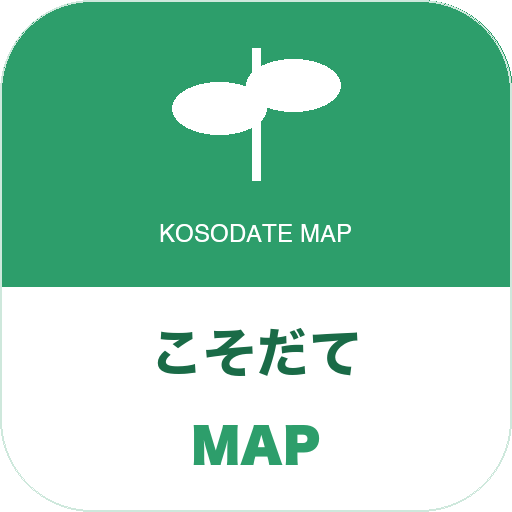
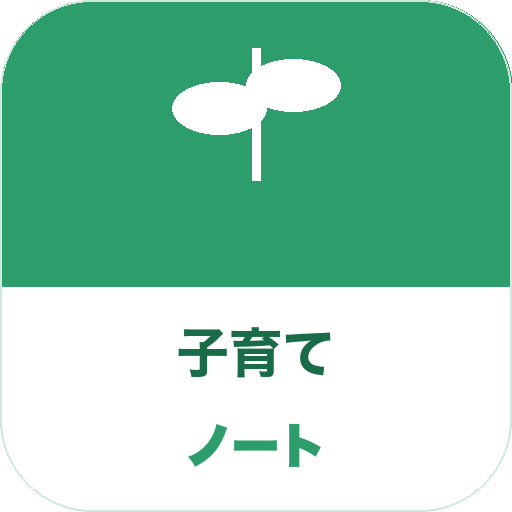
feat: ロゴ・アイコンを総社子育てノートデザインに更新
- アイコン下部テキスト「こそだて/MAP」→「子育て/ノート」
- 上部帯のKOSODATE MAPサブテキストを削除（シンプル化）
- ヘッダー・ヒーロー絵文字 🗺 → 🌱

Changed region(s): [[0.3125, 0.625, 0.7188, 0.75], [0.375, 0.8125, 0.625, 0.9375], [0.3125, 0.4375, 0.6875, 0.4688]]

diff --git a/public/icon-generator.html b/public/icon-generator.html
@@ -1,0 +1,187 @@
+<!DOCTYPE html>
+<html lang="ja">
+<head>
+  <meta charset="UTF-8">
+  <title>アイコン生成</title>
+  <link href="https://fonts.googleapis.com/css2?family=Noto+Sans+JP:wght@700;900&display=swap" rel="stylesheet">
+  <style>
+    * { margin: 0; padding: 0; box-sizing: border-box; }
+    body {
+      background: #d0d0d0;
+      display: flex;
+      flex-direction: column;
+      align-items: center;
+      padding: 40px 24px;
+      gap: 32px;
+      font-family: 'Noto Sans JP', sans-serif;
+    }
+    h2 { font-size: 14px; color: #444; letter-spacing: 1px; }
+    .previews {
+      display: flex;
+      gap: 32px;
+      align-items: flex-end;
+    }
+    .preview-box {
+      display: flex;
+      flex-direction: column;
+      align-items: center;
+      gap: 8px;
+    }
+    .preview-box span { font-size: 11px; color: #666; }
+    canvas { border-radius: 22%; box-shadow: 0 4px 16px rgba(0,0,0,0.15); }
+    .btns {
+      display: flex;
+      gap: 16px;
+    }
+    button {
+      background: #2d9e6b;
+      color: #fff;
+      border: none;
+      border-radius: 8px;
+      padding: 10px 24px;
+      font-size: 13px;
+      font-weight: 700;
+      cursor: pointer;
+      font-family: 'Noto Sans JP', sans-serif;
+    }
+    button:hover { background: #1a7a52; }
+  </style>
+</head>
+<body>
+
+<h2>PWA ホーム画面アイコン — プレビュー</h2>
+
+<div class="previews">
+  <div class="preview-box">
+    <canvas id="c512" width="512" height="512" style="width:120px;height:120px;"></canvas>
+    <span>512 × 512 px</span>
+  </div>
+  <div class="preview-box">
+    <canvas id="c192" width="192" height="192" style="width:80px;height:80px;"></canvas>
+    <span>192 × 192 px</span>
+  </div>
+  <div class="preview-box">
+    <canvas id="c64" width="64" height="64" style="width:48px;height:48px;"></canvas>
+    <span>64 × 64 px（favicon）</span>
+  </div>
+</div>
+
+<div class="btns">
+  <button onclick="download('c512','icon-512.png')">📥 icon-512.png</button>
+  <button onclick="download('c192','icon-192.png')">📥 icon-192.png</button>
+  <button onclick="download('c64','favicon.png')">📥 favicon.png</button>
+</div>
+
+<script>
+  // フォント読み込み待機後に描画
+  document.fonts.ready.then(() => {
+    ['c512','c192','c64'].forEach(id => drawIcon(id));
+  });
+
+  function drawIcon(canvasId) {
+    const canvas = document.getElementById(canvasId);
+    const size = canvas.width;
+    const ctx = canvas.getContext('2d');
+    const s = size / 512; // スケールファクター（512基準）
+
+    ctx.clearRect(0, 0, size, size);
+
+    // ── 背景（白） ──
+    const r = 80 * s; // 角丸半径
+    roundRect(ctx, 0, 0, size, size, r);
+    ctx.fillStyle = '#ffffff';
+    ctx.fill();
+
+    // ── 上部グリーン帯（高さ54%） ──
+    const bandH = size * 0.56;
+    ctx.save();
+    roundRect(ctx, 0, 0, size, size, r);
+    ctx.clip();
+    ctx.fillStyle = '#2d9e6b';
+    ctx.fillRect(0, 0, size, bandH);
+    ctx.restore();
+
+    // ── 葉のシンボル（白いシンプル形状）──
+    const cx = size / 2;
+    const cy = bandH * 0.44;
+    const leafSize = 120 * s;
+
+    ctx.save();
+    ctx.translate(cx, cy);
+
+    // 茎
+    ctx.strokeStyle = 'rgba(255,255,255,0.85)';
+    ctx.lineWidth = 9 * s;
+    ctx.lineCap = 'round';
+    ctx.beginPath();
+    ctx.moveTo(0, leafSize * 0.55);
+    ctx.lineTo(0, -leafSize * 0.6);
+    ctx.stroke();
+
+    // 左の葉
+    ctx.fillStyle = 'rgba(255,255,255,0.90)';
+    ctx.beginPath();
+    ctx.ellipse(-leafSize * 0.38, -leafSize * 0.08, leafSize * 0.42, leafSize * 0.22, -Math.PI * 0.28, 0, Math.PI * 2);
+    ctx.fill();
+
+    // 右の葉
+    ctx.beginPath();
+    ctx.ellipse(leafSize * 0.38, -leafSize * 0.28, leafSize * 0.42, leafSize * 0.22, Math.PI * 0.28, 0, Math.PI * 2);
+    ctx.fill();
+
+    ctx.restore();
+
+    // ── 下部エリア（白）：テキスト ──
+    if (size >= 96) {
+      ctx.textAlign = 'center';
+      ctx.textBaseline = 'middle';
+
+      // "子育て"（細め）
+      ctx.font = `700 ${Math.round(52 * s)}px 'Noto Sans JP'`;
+      ctx.fillStyle = '#1a7a52';
+      ctx.fillText('子育て', cx, bandH + (size - bandH) * 0.38);
+
+      // "ノート"（太め・小）
+      ctx.font = `900 ${Math.round(44 * s)}px 'Noto Sans JP'`;
+      ctx.fillStyle = '#2d9e6b';
+      ctx.fillText('ノート', cx, bandH + (size - bandH) * 0.72);
+    }
+
+    // ── 外枠（薄い緑） ──
+    ctx.save();
+    roundRect(ctx, 0.5, 0.5, size - 1, size - 1, r);
+    ctx.strokeStyle = 'rgba(45,158,107,0.3)';
+    ctx.lineWidth = 1.5 * s;
+    ctx.stroke();
+    ctx.restore();
+  }
+
+  function roundRect(ctx, x, y, w, h, r) {
+    ctx.beginPath();
+    ctx.moveTo(x + r, y);
+    ctx.lineTo(x + w - r, y);
+    ctx.arcTo(x + w, y, x + w, y + r, r);
+    ctx.lineTo(x + w, y + h - r);
+    ctx.arcTo(x + w, y + h, x + w - r, y + h, r);
+    ctx.lineTo(x + r, y + h);
+    ctx.arcTo(x, y + h, x, y + h - r, r);
+    ctx.lineTo(x, y + r);
+    ctx.arcTo(x, y, x + r, y, r);
+    ctx.closePath();
+  }
+
+  function download(canvasId, filename) {
+    document.fonts.ready.then(() => {
+      drawIcon(canvasId);
+      setTimeout(() => {
+        const canvas = document.getElementById(canvasId);
+        const link = document.createElement('a');
+        link.download = filename;
+        link.href = canvas.toDataURL('image/png');
+        link.click();
+      }, 100);
+    });
+  }
+</script>
+</body>
+</html>

diff --git a/src/components/layout/AppHeader.tsx b/src/components/layout/AppHeader.tsx
@@ -142,7 +142,7 @@ function AppHeaderInner({ municipalityName, municipalityId }: AppHeaderProps) {
         <div className="max-w-lg mx-auto px-4 py-3 flex items-center justify-between">
           <Link href="/" className="flex items-center gap-2">
             <div className="w-8 h-8 bg-gradient-to-br from-[#4CAF82] to-[#2d9e6b] rounded-[10px] flex items-center justify-center text-white text-base">
-              🗺
+              🌱
             </div>
             <div className="text-base font-bold text-gray-900">
               総社<span className="text-[#4CAF82]">子育てノート</span>
@@ -189,7 +189,7 @@ function AppHeaderInner({ municipalityName, municipalityId }: AppHeaderProps) {
             <div className="flex items-center justify-between px-4 py-4 border-b border-gray-100">
               <div className="flex items-center gap-2">
                 <div className="w-7 h-7 bg-gradient-to-br from-[#4CAF82] to-[#2d9e6b] rounded-lg flex items-center justify-center text-white text-sm">
-                  🗺
+                  🌱
                 </div>
                 <span className="font-bold text-gray-800">総社子育てノート</span>
               </div>
@@ -315,7 +315,7 @@ export default function AppHeader(props: AppHeaderProps) {
           <div className="max-w-lg mx-auto px-4 py-3 flex items-center justify-between">
             <div className="flex items-center gap-2">
               <div className="w-8 h-8 bg-gradient-to-br from-[#4CAF82] to-[#2d9e6b] rounded-[10px] flex items-center justify-center text-white text-base">
-                🗺
+                🌱
               </div>
               <div className="text-base font-bold text-gray-900">
                 総社<span className="text-[#4CAF82]">子育てノート</span>

diff --git a/src/app/page.tsx b/src/app/page.tsx
@@ -17,7 +17,7 @@ export default async function HomePage() {
         <div className="max-w-lg mx-auto">
           <div className="flex items-center gap-3 mb-6">
             <div className="w-12 h-12 bg-white/20 rounded-2xl flex items-center justify-center text-2xl backdrop-blur-sm">
-              🗺
+              🌱
             </div>
             <div>
               <h1 className="text-2xl font-bold">
